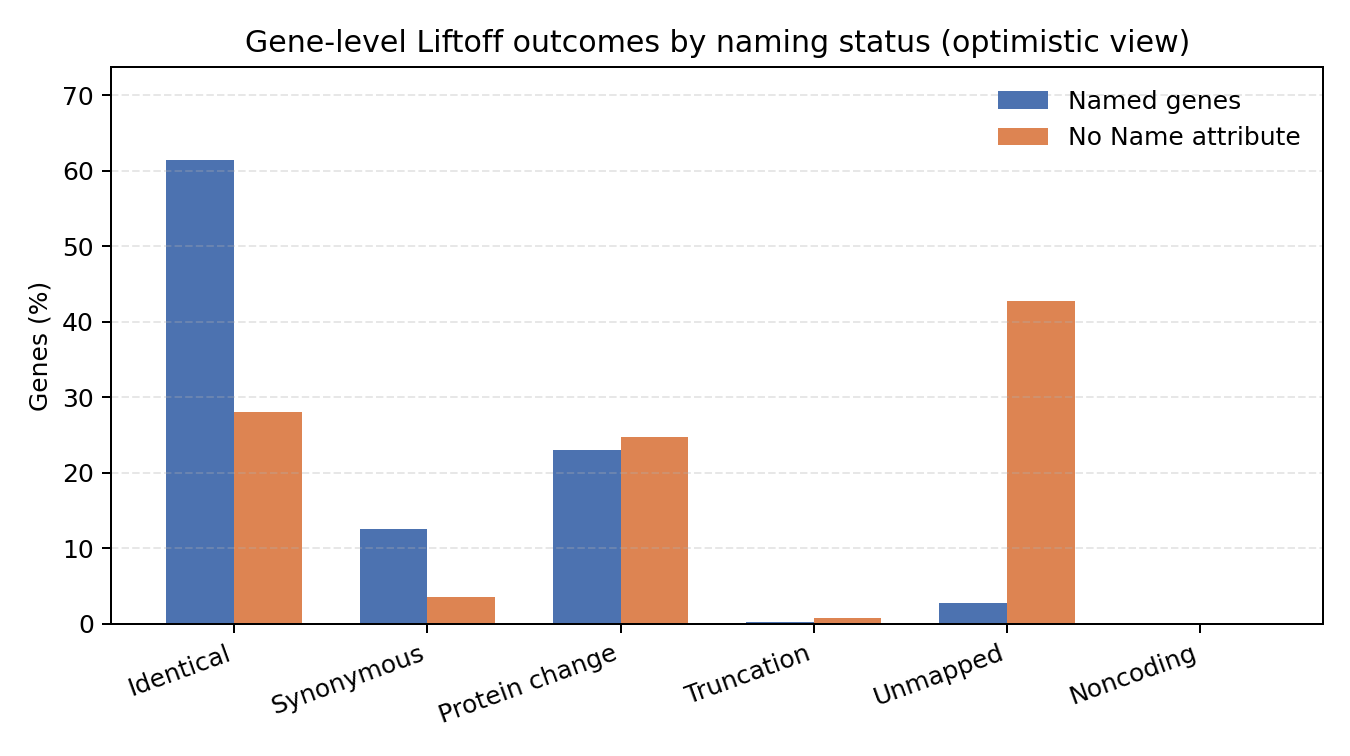
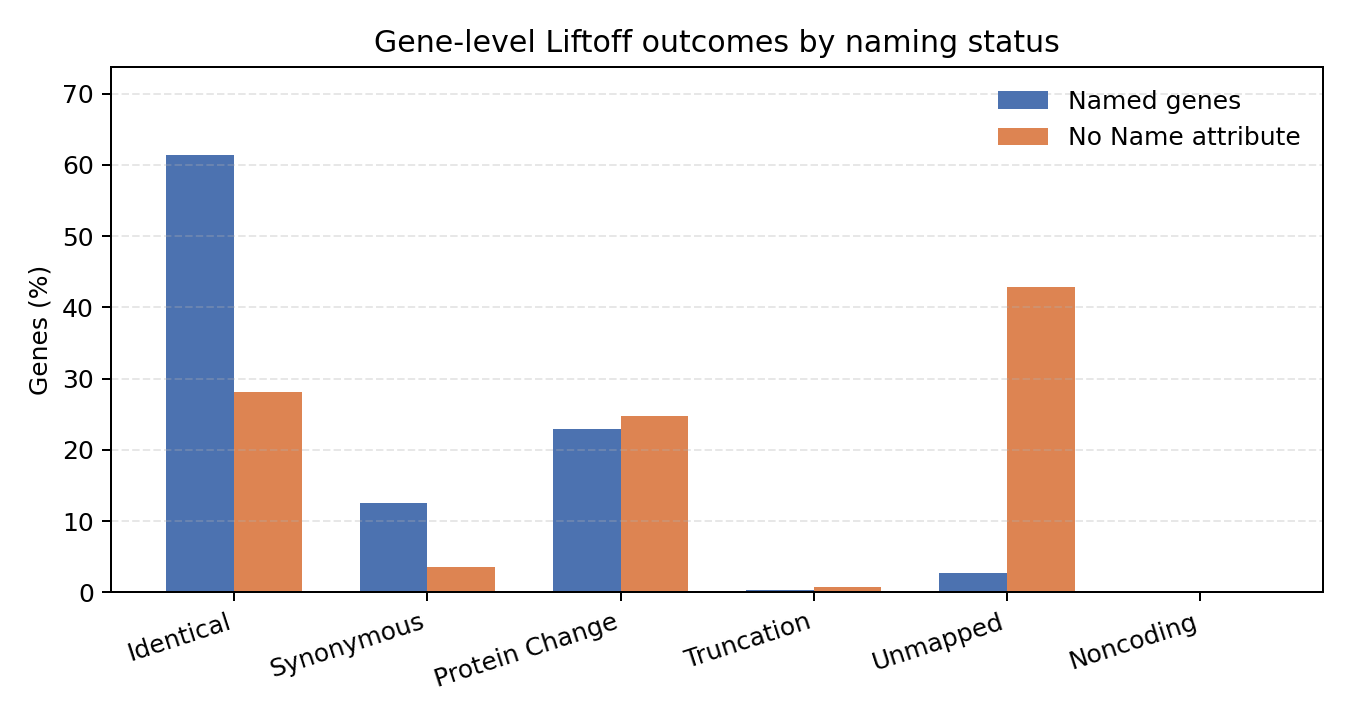
(codex) Persist variant-effect analysis scripts

diff --git a/experiments/liftofftools_full_ensembl/compare_named_vs_unnamed.py b/experiments/liftofftools_full_ensembl/compare_named_vs_unnamed.py
@@ -1,0 +1,192 @@
+#!/usr/bin/env python3
+"""Compare per-gene Liftoff effects between named and unnamed genes."""
+
+from __future__ import annotations
+
+import argparse
+import csv
+import math
+import os
+import re
+from collections import Counter
+from pathlib import Path
+
+os.environ.setdefault(
+    "MPLCONFIGDIR",
+    str(Path(__file__).resolve().parent / ".matplotlib-cache"),
+)
+Path(os.environ["MPLCONFIGDIR"]).mkdir(parents=True, exist_ok=True)
+
+import matplotlib
+
+matplotlib.use("Agg")  # headless backend for scripted runs
+import matplotlib.pyplot as plt
+import numpy as np
+
+AGGREGATED_ORDER = [
+    "identical",
+    "synonymous",
+    "protein_change",
+    "truncation",
+    "unmapped",
+    "noncoding",
+    "other",
+]
+PROTEIN_CHANGE = {
+    "nonsynonymous",
+    "frameshift",
+    "start_lost",
+    "stop_gained",
+    "inframe_deletion",
+    "inframe_insertion",
+}
+TRUNCATIONS = {"5'_truncated", "3'_truncated"}
+
+
+def parse_args() -> argparse.Namespace:
+    parser = argparse.ArgumentParser(description=__doc__)
+    parser.add_argument("--gene-effects", required=True, type=Path, help="TSV with columns gene_id,best_effect")
+    parser.add_argument("--gff", required=True, type=Path, help="Annotation GFF3 containing gene Name attributes")
+    parser.add_argument("--output-prefix", required=True, type=Path, help="Prefix for PNG/TSV outputs")
+    return parser.parse_args()
+
+
+def load_gene_names(gff_path: Path) -> dict[str, bool]:
+    pattern = re.compile(r"ID=gene:([^;]+)")
+    gene_has_name: dict[str, bool] = {}
+    with gff_path.open() as handle:
+        for line in handle:
+            if line.startswith("#") or "\t" not in line:
+                continue
+            fields = line.rstrip("\n").split("\t")
+            if len(fields) < 9 or fields[2] != "gene":
+                continue
+            attrs = fields[8]
+            match = pattern.search(attrs)
+            if not match:
+                continue
+            gene_id = match.group(1)
+            name_value = None
+            for attr in attrs.split(";"):
+                if attr.startswith("Name="):
+                    name_value = attr.split("=", 1)[1]
+                    break
+            gene_has_name[gene_id] = bool(name_value and name_value != gene_id)
+    return gene_has_name
+
+
+def aggregate(effect: str) -> str:
+    if effect == "identical":
+        return "identical"
+    if effect == "synonymous":
+        return "synonymous"
+    if effect in PROTEIN_CHANGE:
+        return "protein_change"
+    if effect in TRUNCATIONS:
+        return "truncation"
+    if effect == "unmapped":
+        return "unmapped"
+    if effect == "NA":
+        return "noncoding"
+    return "other"
+
+
+def proportion_z_test(a_success: int, a_total: int, b_success: int, b_total: int) -> tuple[float, float]:
+    """Return z-score and two-sided p-value for difference in proportions."""
+    p1 = a_success / a_total
+    p2 = b_success / b_total
+    pooled = (a_success + b_success) / (a_total + b_total)
+    se = math.sqrt(pooled * (1.0 - pooled) * (1 / a_total + 1 / b_total))
+    z = (p1 - p2) / se if se else float("inf")
+    # Survival function for standard normal
+    p = math.erfc(abs(z) / math.sqrt(2.0))
+    return z, p
+
+
+def main() -> int:
+    args = parse_args()
+    output_dir = args.output_prefix.parent
+    output_dir.mkdir(parents=True, exist_ok=True)
+
+    gene_has_name = load_gene_names(args.gff)
+
+    counts = {"named": Counter(), "unnamed": Counter()}
+    raw_effects = {"named": Counter(), "unnamed": Counter()}
+    missing = 0
+
+    with args.gene_effects.open() as handle:
+        reader = csv.DictReader(handle, delimiter="\t")
+        for row in reader:
+            gene_id = row["gene_id"]
+            effect = row["best_effect"]
+            has_name = gene_has_name.get(gene_id)
+            if has_name is None:
+                has_name = False
+                missing += 1
+            group = "named" if has_name else "unnamed"
+            raw_effects[group][effect] += 1
+            counts[group][aggregate(effect)] += 1
+
+    totals = {group: sum(counts[group].values()) for group in counts}
+
+    print("Gene counts by naming status:")
+    for group in counts:
+        print(f"  {group:7s}: {totals[group]:6d} genes")
+    if missing:
+        print(f"  [info] {missing} genes missing explicit Name attribute treated as unnamed")
+
+    summary_rows = []
+    percentages = {group: {} for group in counts}
+    for group in counts:
+        total = totals[group]
+        for cat in AGGREGATED_ORDER:
+            value = counts[group][cat]
+            pct = 100.0 * value / total if total else 0.0
+            percentages[group][cat] = pct
+            summary_rows.append((group, cat, value, pct))
+
+    # Proportion test for identical category
+    z, p = proportion_z_test(
+        raw_effects["named"]["identical"],
+        totals["named"],
+        raw_effects["unnamed"]["identical"],
+        totals["unnamed"],
+    )
+    print(f"\nIdentical proportion: named={percentages['named']['identical']:.2f}% vs unnamed={percentages['unnamed']['identical']:.2f}%")
+    print(f"Two-sided z-test: z={z:.2f}, p={p:.2e}")
+
+    summary_tsv = args.output_prefix.parent / f"{args.output_prefix.name}_named_vs_unnamed.tsv"
+    with summary_tsv.open("w") as handle:
+        handle.write("group\tcategory\tgenes\tpercent\n")
+        for group, cat, value, pct in summary_rows:
+            handle.write(f"{group}\t{cat}\t{value}\t{pct:.4f}\n")
+        handle.write(f"z_test\tidentical\t{z:.4f}\t{p:.4e}\n")
+
+    category_labels = ["identical", "synonymous", "protein_change", "truncation", "unmapped", "noncoding"]
+    idx = np.arange(len(category_labels))
+    width = 0.35
+
+    fig, ax = plt.subplots(figsize=(7.5, 4.0))
+    named_vals = [percentages["named"][cat] for cat in category_labels]
+    unnamed_vals = [percentages["unnamed"][cat] for cat in category_labels]
+
+    ax.bar(idx - width / 2, named_vals, width, label="Named genes", color="#4C72B0")
+    ax.bar(idx + width / 2, unnamed_vals, width, label="No Name attribute", color="#DD8452")
+    ax.set_xticks(idx)
+    ax.set_xticklabels([label.replace("_", " ").title() for label in category_labels], rotation=18, ha="right")
+    ax.set_ylabel("Genes (%)")
+    max_height = max(named_vals + unnamed_vals) if (named_vals or unnamed_vals) else 0
+    ax.set_ylim(0, max_height * 1.2 if max_height else 1)
+    ax.legend(frameon=False)
+    ax.grid(axis="y", linestyle="--", alpha=0.3)
+    ax.set_title("Gene-level Liftoff outcomes by naming status")
+    fig.tight_layout()
+
+    chart_path = args.output_prefix.with_suffix(".png")
+    fig.savefig(chart_path, dpi=180)
+    print(f"Saved bar chart to {chart_path}")
+    return 0
+
+
+if __name__ == "__main__":
+    raise SystemExit(main())

diff --git a/experiments/liftofftools_full_ensembl/summarise_variant_effects.py b/experiments/liftofftools_full_ensembl/summarise_variant_effects.py
@@ -1,0 +1,148 @@
+#!/usr/bin/env python3
+"""Summarise LiftoffTools transcript-level variant effects at the gene level."""
+
+from __future__ import annotations
+
+import argparse
+import csv
+import re
+import sys
+from collections import Counter, defaultdict
+from pathlib import Path
+
+SEVERITY_ORDER = [
+    "identical",
+    "synonymous",
+    "NA",
+    "inframe_insertion",
+    "inframe_deletion",
+    "nonsynonymous",
+    "frameshift",
+    "start_lost",
+    "stop_gained",
+    "5'_truncated",
+    "3'_truncated",
+    "unmapped",
+]
+SEVERITY_RANK = {effect: idx for idx, effect in enumerate(SEVERITY_ORDER)}
+
+
+def load_transcript_gene_map(gff_path: Path) -> dict[str, str]:
+    """Return transcript -> gene mapping from an Ensembl-style GFF3."""
+    mapping: dict[str, str] = {}
+    pattern = re.compile(r"ID=transcript:([^;]+);Parent=gene:([^;]+)")
+    with gff_path.open() as handle:
+        for line in handle:
+            if "\t" not in line or line.startswith("#"):
+                continue
+            match = pattern.search(line)
+            if match:
+                transcript_id, gene_id = match.groups()
+                mapping[transcript_id] = gene_id
+    return mapping
+
+
+def classify_gene(effects: list[str], *, optimistic: bool) -> str:
+    """Return best (optimistic) or worst (pessimistic) effect."""
+    rank_default = len(SEVERITY_RANK)
+    key = (min if optimistic else max)
+    return key(effects, key=lambda eff: SEVERITY_RANK.get(eff, rank_default))
+
+
+def aggregate_counts(per_gene: dict[str, list[str]], *, optimistic: bool) -> Counter[str]:
+    summary: Counter[str] = Counter()
+    for gene, effects in per_gene.items():
+        if not effects:
+            continue
+        summary[classify_gene(effects, optimistic=optimistic)] += 1
+    return summary
+
+
+def parse_args() -> argparse.Namespace:
+    parser = argparse.ArgumentParser(description=__doc__)
+    parser.add_argument(
+        "--variant-effects",
+        required=True,
+        type=Path,
+        help="Path to LiftoffTools variant_effects file",
+    )
+    parser.add_argument(
+        "--gff",
+        required=True,
+        type=Path,
+        help="Reference annotation GFF3 used for the lift (provides transcript parentage)",
+    )
+    parser.add_argument(
+        "--outdir",
+        required=True,
+        type=Path,
+        help="Directory for the generated TSV outputs",
+    )
+    return parser.parse_args()
+
+
+def main() -> int:
+    args = parse_args()
+    transcript_map = load_transcript_gene_map(args.gff)
+    if not transcript_map:
+        print("[warn] No transcript→gene mappings found in GFF; check file path", file=sys.stderr)
+
+    per_gene: defaultdict[str, list[str]] = defaultdict(list)
+    missing = Counter()
+
+    with args.variant_effects.open() as handle:
+        reader = csv.reader(handle, delimiter="\t")
+        for row in reader:
+            if not row:
+                continue
+            if row[0].startswith("transcript:"):
+                transcript_id = row[0].split(":", 1)[1]
+            else:
+                continue
+            gene_id = transcript_map.get(transcript_id)
+            if gene_id is None:
+                missing[transcript_id] += 1
+                continue
+            if len(row) >= 5:
+                effect = row[4] or "NA"
+            elif len(row) == 2 and row[1] == "unmapped":
+                effect = "unmapped"
+            else:
+                effect = "NA"
+            per_gene[gene_id].append(effect)
+
+    if missing:
+        print(f"[warn] {len(missing)} transcripts missing gene mapping (skipped)", file=sys.stderr)
+
+    args.outdir.mkdir(parents=True, exist_ok=True)
+    best_path = args.outdir / "variant_effects_gene_best.tsv"
+    worst_path = args.outdir / "variant_effects_gene_worst.tsv"
+
+    with best_path.open("w") as handle:
+        handle.write("gene_id\tbest_effect\n")
+        for gene, effects in per_gene.items():
+            handle.write(f"{gene}\t{classify_gene(effects, optimistic=True)}\n")
+
+    with worst_path.open("w") as handle:
+        handle.write("gene_id\tworst_effect\n")
+        for gene, effects in per_gene.items():
+            handle.write(f"{gene}\t{classify_gene(effects, optimistic=False)}\n")
+
+    best_counts = aggregate_counts(per_gene, optimistic=True)
+    worst_counts = aggregate_counts(per_gene, optimistic=False)
+    total_genes = len(per_gene)
+
+    def report(label: str, counts: Counter[str]) -> None:
+        print(f"\n{label} ({total_genes} genes)")
+        for effect, count in counts.most_common():
+            pct = 100.0 * count / total_genes if total_genes else 0.0
+            print(f"  {effect:15s} {count:6d} ({pct:5.2f}%)")
+
+    report("Optimistic aggregation", best_counts)
+    report("Pessimistic aggregation", worst_counts)
+
+    return 0
+
+
+if __name__ == "__main__":
+    raise SystemExit(main())

diff --git a/docs/AI-usage.md b/docs/AI-usage.md
@@ -218,4 +218,17 @@ What it did:
 
 (my) Reflection: For some reason the codex agent decided to document what it did and reflect on it in this document.. This might not be a bad idea, although I need to separate the AIs reflection from mine.
 
+### (codex) Persist variant-effect analysis scripts
 
+```
+Save all the scripts used for calculating variant effect stats as python files in the experiments/liftofftools_full_ensembl directory
+```
+
+What it did:
+* Reconstructed the ad-hoc notebook snippets into two reusable scripts: `summarise_variant_effects.py` (generates per-gene best/worst calls) and `compare_named_vs_unnamed.py` (recreates the gene-name analysis, chart, and stats).
+* Ran both scripts to refresh the TSV outputs and regenerate the figure, wiring Matplotlib to use a local cache so the CLI workflow stays headless-friendly.
+* Updated `.gitignore` to exclude Matplotlib cache folders.
+
+Codex reflection: Nice quality-of-life improvement—having the logic scripted clears a path toward baking these steps into the future workflow or a Makefile target.
+
+My reflection: I realized that having the AI agent run ad-hoc scripts is not reproducible, so I asked it to save the scripts as files. Going forward I should probably have it save all the scripts, perhaphs using python notebook. There are of course many commands the agent runs to explore files and build context which is not needed for reproducibility, so I may need to be smart about the instructions.
